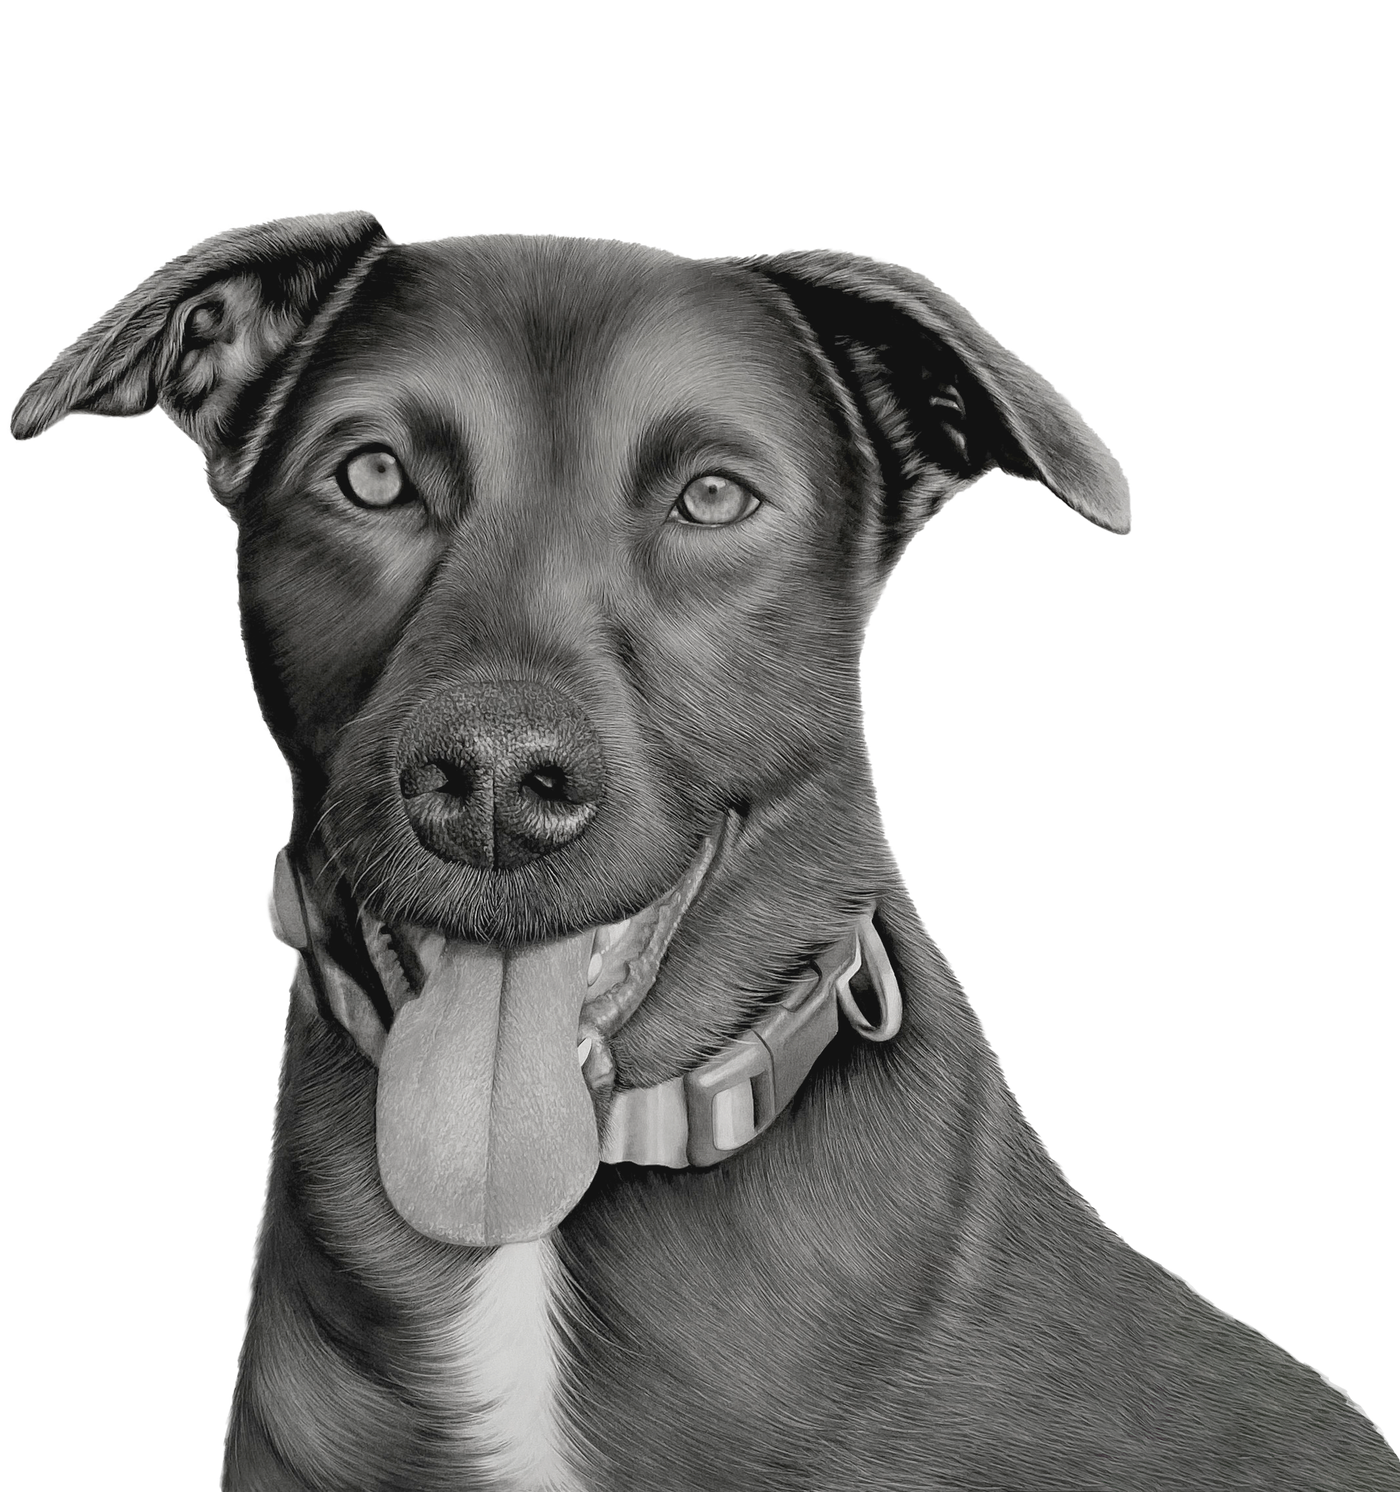
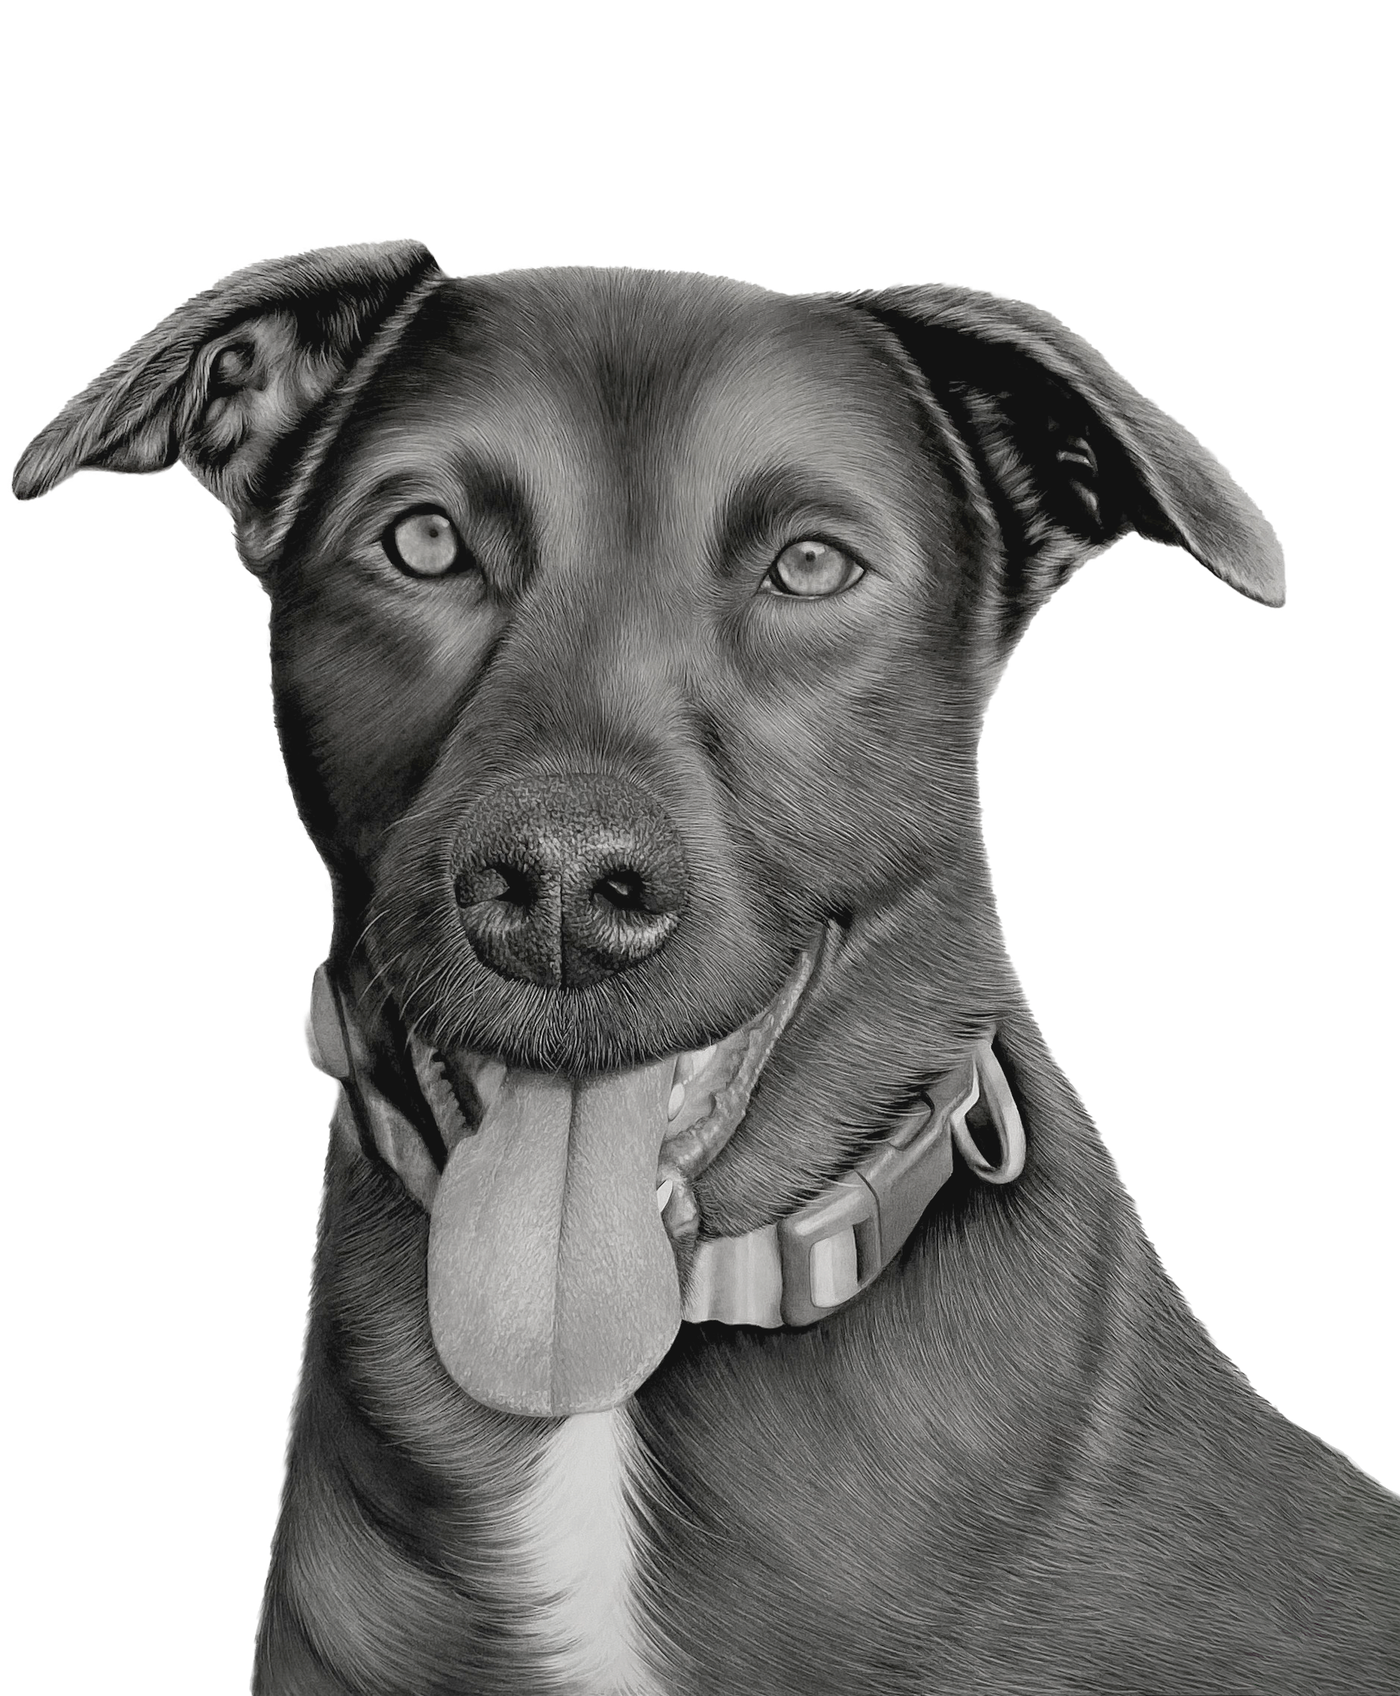
Centra el retrato del perro

diff --git a/index.html b/index.html
@@ -307,7 +307,7 @@
   <section class="portrait">
     <picture>
       <source srcset="assets/retrato-negrona.webp" type="image/webp">
-      <img src="assets/retrato-negrona.png" alt="Retrato realista de mascota pintado por Claudia" loading="lazy" width="1400" height="1492">
+      <img src="assets/retrato-negrona.png" alt="Retrato realista de mascota pintado por Claudia" loading="lazy" width="1400" height="1696">
     </picture>
     <div class="floor-line"></div>
   </section>
